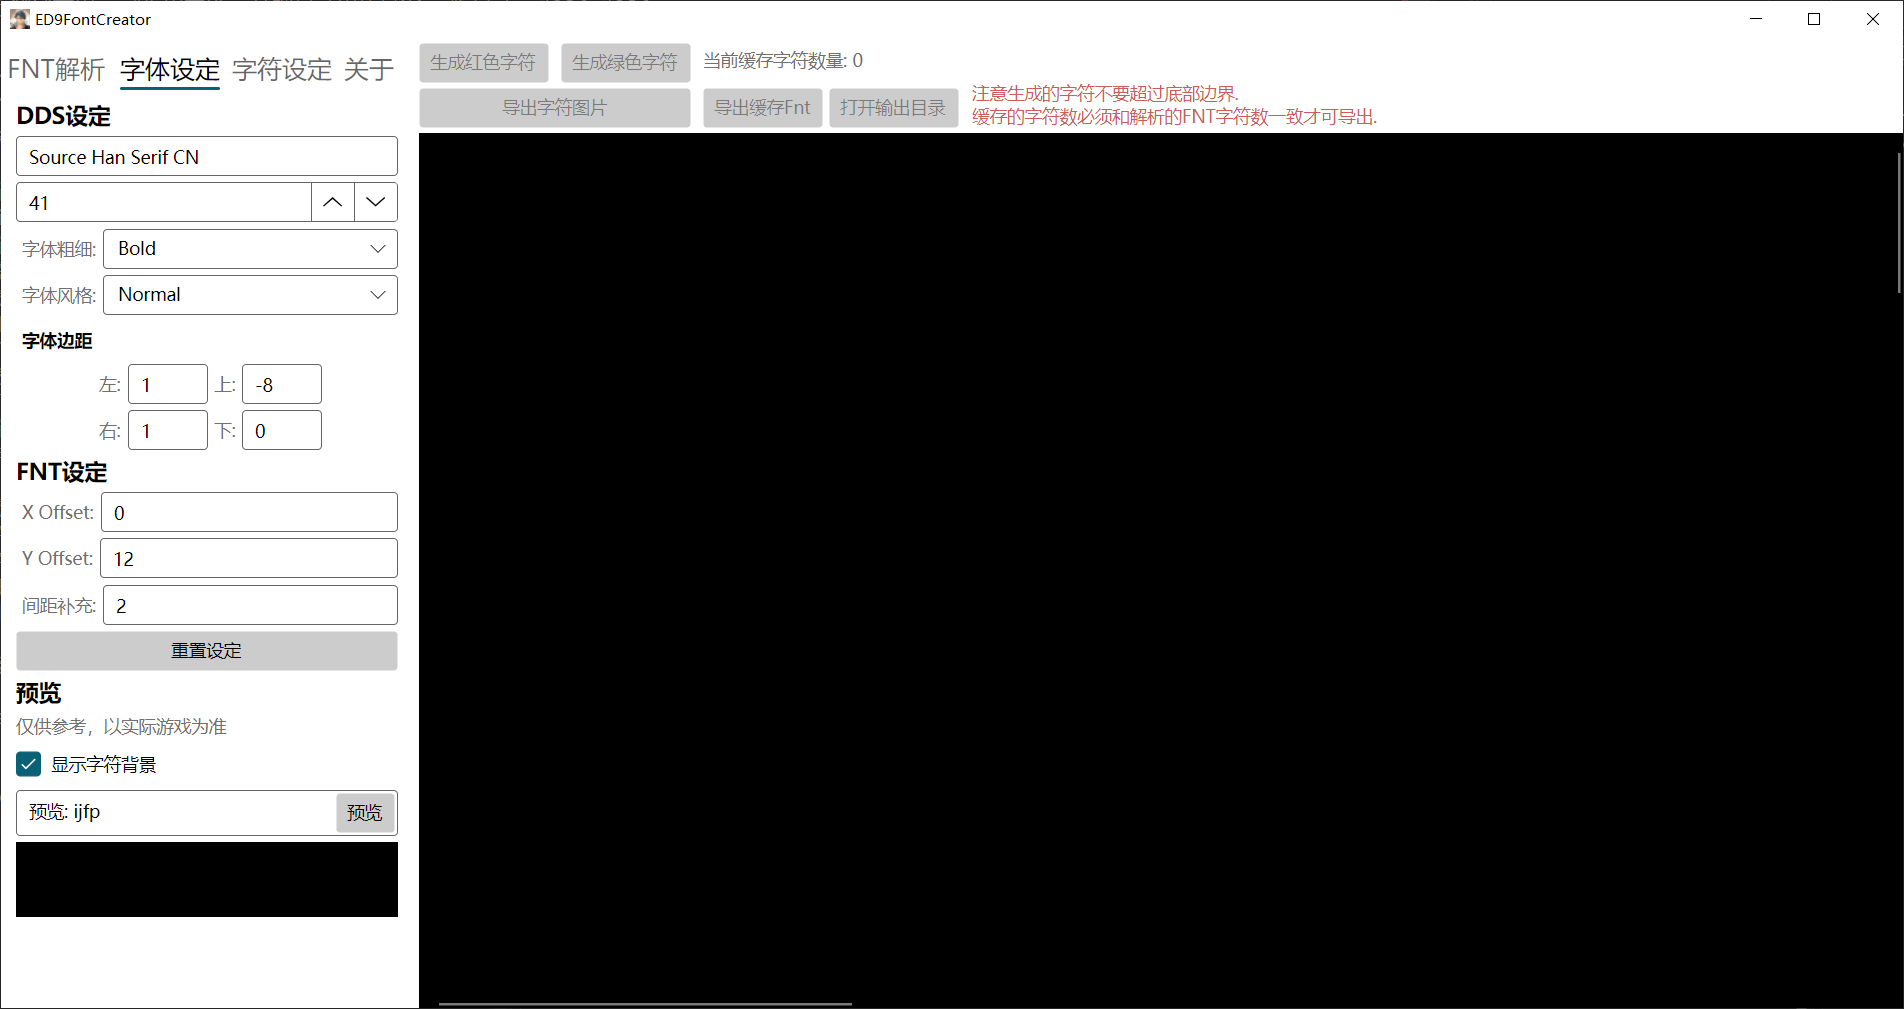
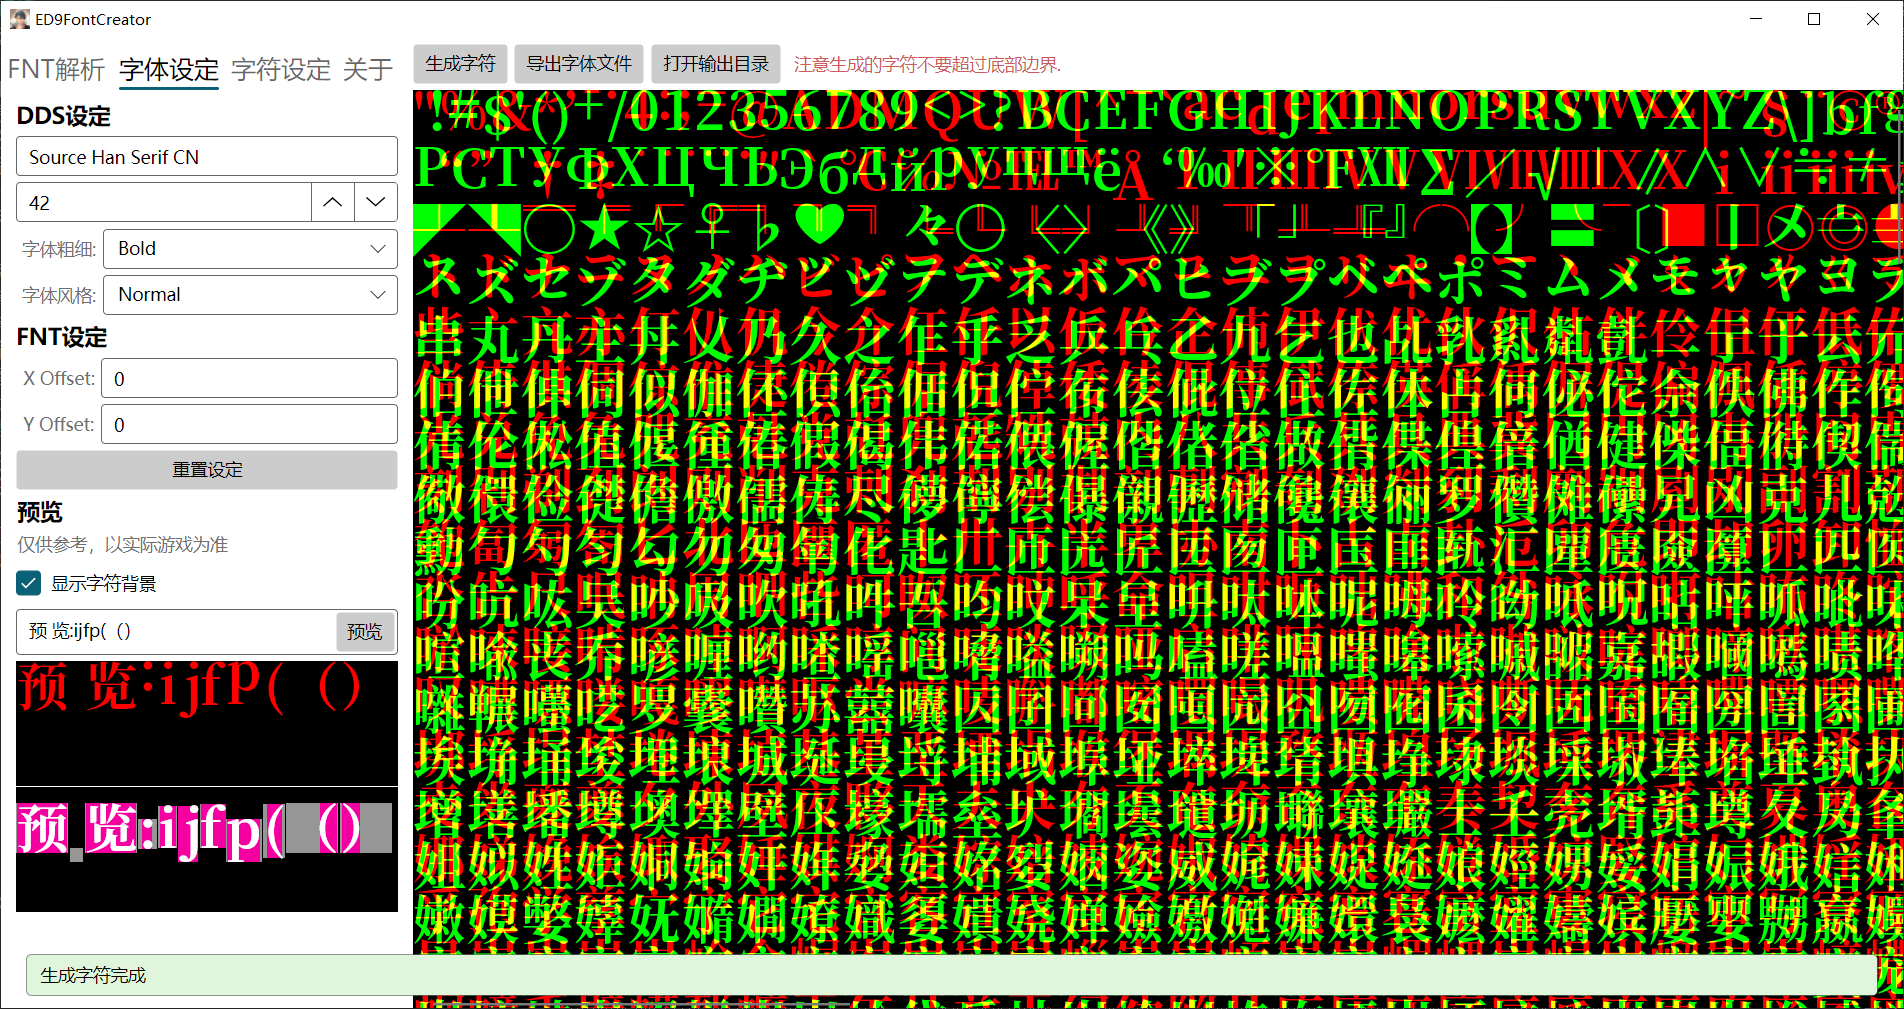
1.0.0

diff --git a/README.md b/README.md
@@ -1,38 +1,31 @@
 # 介绍
-自定义黎之轨迹的字体文件(纹理和fnt文件), 提供字符替换和简繁转换功能,  
-不过不能直接使用纹理文件, 需要dds转换后才能使用.  
+自定义黎之轨迹的字体文件(纹理和fnt文件), 提供字符替换和简繁转换功能, 转换完成后替换游戏文件即可.  
 云豹版Nisa版测试可用, 副作用不详. 纹理尺寸用的是Nisa版尺寸: 4096*4096  
   
 ![main](Screenshots/main.png) 
 
 # 前置
- .net8和[TexconvGui](https://github.com/bj-rn/texconvgui)
+ .net8
 # 使用
 ### FNT解析
 以黎之轨迹Nisa版为例, 打开**ED9FontCreator**后拖动**game\asset\common\font\font_\*.fnt**到Fnt文件路径文本框中, 之后点击解析, 成功则会显示总字符数和数据长度.
 ### 字体设定
 根据自己的需求设定字体, 推荐使用字符齐全的字体, 比如思源系列的字体.  
 默认设置是我个人使用的思源宋体.  
-字体边距越大字符周围空白越大, 可以输入负数缩减字符边距(缩减太多, 可能会引发游戏裁剪错误, 导致字符有杂点).
-Fnt设定的XY offset是游戏使用的字体显示偏移, 推荐默认.  
-间距补充是战斗信息框中两个字符之间的间隔, 推荐2.  
-调整设置后可先预览查看是否是自己需要的效果. 注意: 预览会沿用字符设定.  
+Fnt设定的XY offset是游戏使用的字体显示偏移(X偏移游戏似乎不起作用), 推荐默认.  
+调整设置后可先预览. 注: 预览会沿用字符设定.  
 ### 字符设定
 简繁转换和特定字符的替换.
 ### 生成
 以上设定完成后再进行下方操作:  
-1. 生成红色字符, 等黑色页面出现红色字符后查看是否超过底部的边界, 如果超过了就需要调整字体大小或边距, 之后导出字符图片.   
-2. 生成绿色字符, 与上方同样的操作.  
-3. 合成字符图片
-3. 此时缓存的字符数量应该和Fnt解析出来的总字符数一致, 点击导出缓存Fnt.  
-4. 打开输出目录, 应该有2个文件在里面, **font_\*.fnt和font_\*.png**.  
-5. 打开**TexconvGui**, Source选择本程序的输出目录, Destination选择导出目录, Output Format选择**BC7_UNORM**, 点击Convert, 等待其转换结束.  
-![TexConvGui](Screenshots/TexConvGui.png) 
-6. 注意备份!! 此时我们把**ED9FontCreator**输出目录中的**font_\*.fnt**覆盖到**game\\asset\common\font**目录,  
-把**TexconvGui**转换好的**font_\*.dds**文件覆盖到**ame\asset\dx11\image**目录, 启动游戏查看是否成功.
+1. 生成字符图片.  
+2. 导出字体文件. 
+3. 打开输出目录, 应该有2个文件在里面, **font_\*.fnt和font_\*.dds**.  
+4. 注意备份!! 此时我们把**font_\*.fnt**覆盖到**game\\asset\common\font**目录,  
+把**font_\*.dds**文件覆盖到**ame\asset\dx11\image**目录, 启动游戏查看是否成功.
 # 游戏效果(思源宋体Bold)
 ![1](Screenshots/1.png) 
 ![2](Screenshots/2.png) 
 # 参考
-[黎之轨迹工具包（更新中：2022/8/24）](https://bbs.3dmgame.com/forum.php?mod=viewthread&tid=6321673&page=1&extra=#pid301960392)
+[黎之轨迹工具包（更新中：2022/8/24）](https://bbs.3dmgame.com/forum.php?mod=viewthread&tid=6321673&page=1&extra=#pid301960392)  
 [ED9FontConverter](https://github.com/TwnKey/ED9FontConverter)
